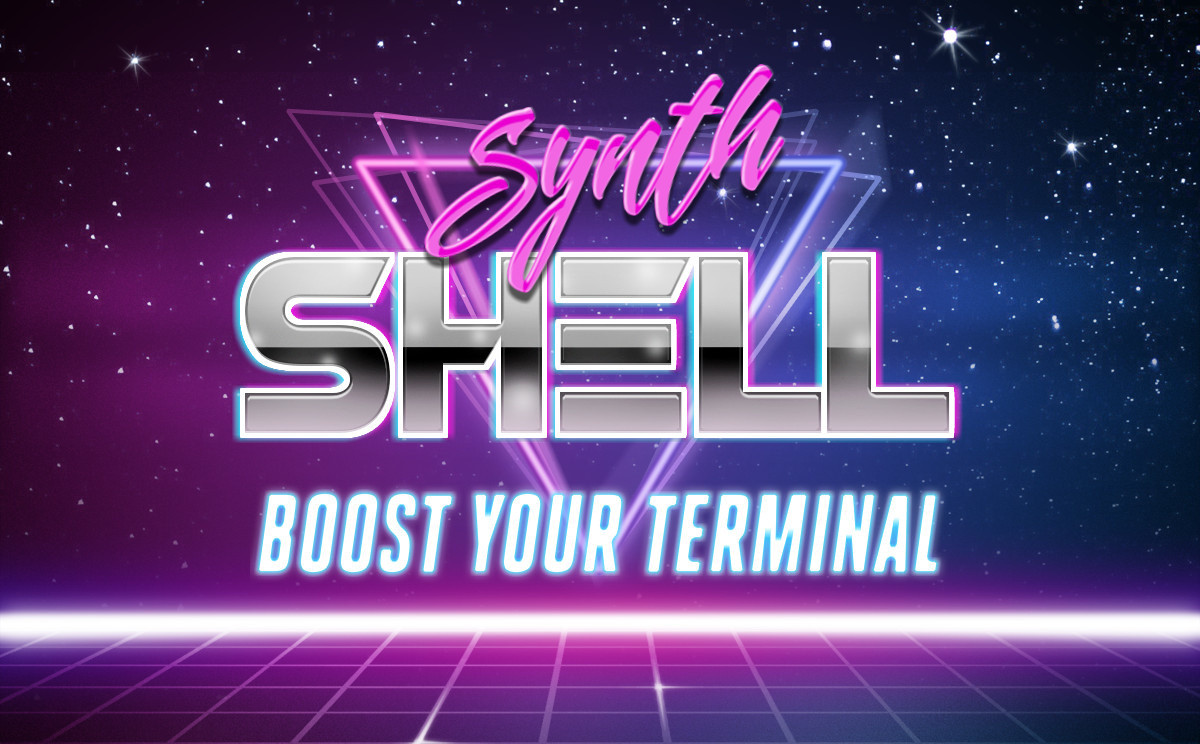
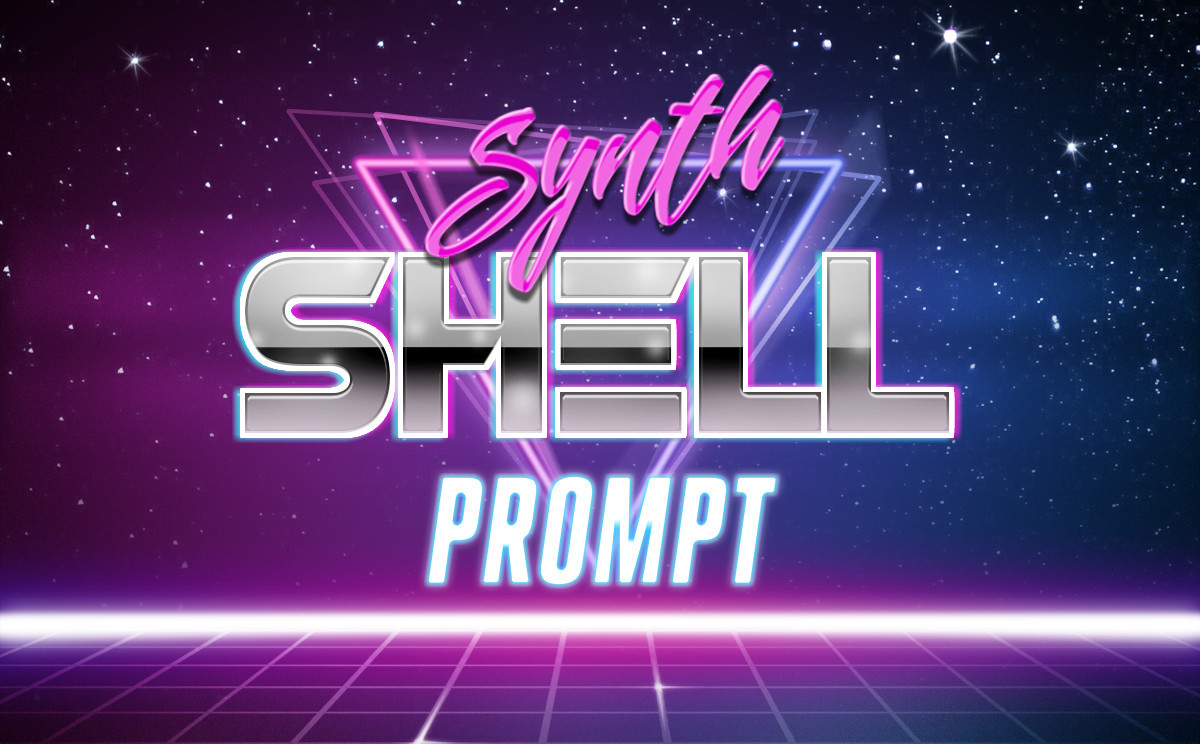
Update cover image

Changed region(s): [[0.185, 0.6183, 0.8017, 0.8038]]

diff --git a/README.md b/README.md
@@ -1,4 +1,4 @@
-![synth-shell](doc/synth-shell-status.jpg)
+![synth-shell-prompt](doc/synth-shell-prompt.jpg)
 
 
 **synth-shell-prompt** is not only fancy, but also useful:
